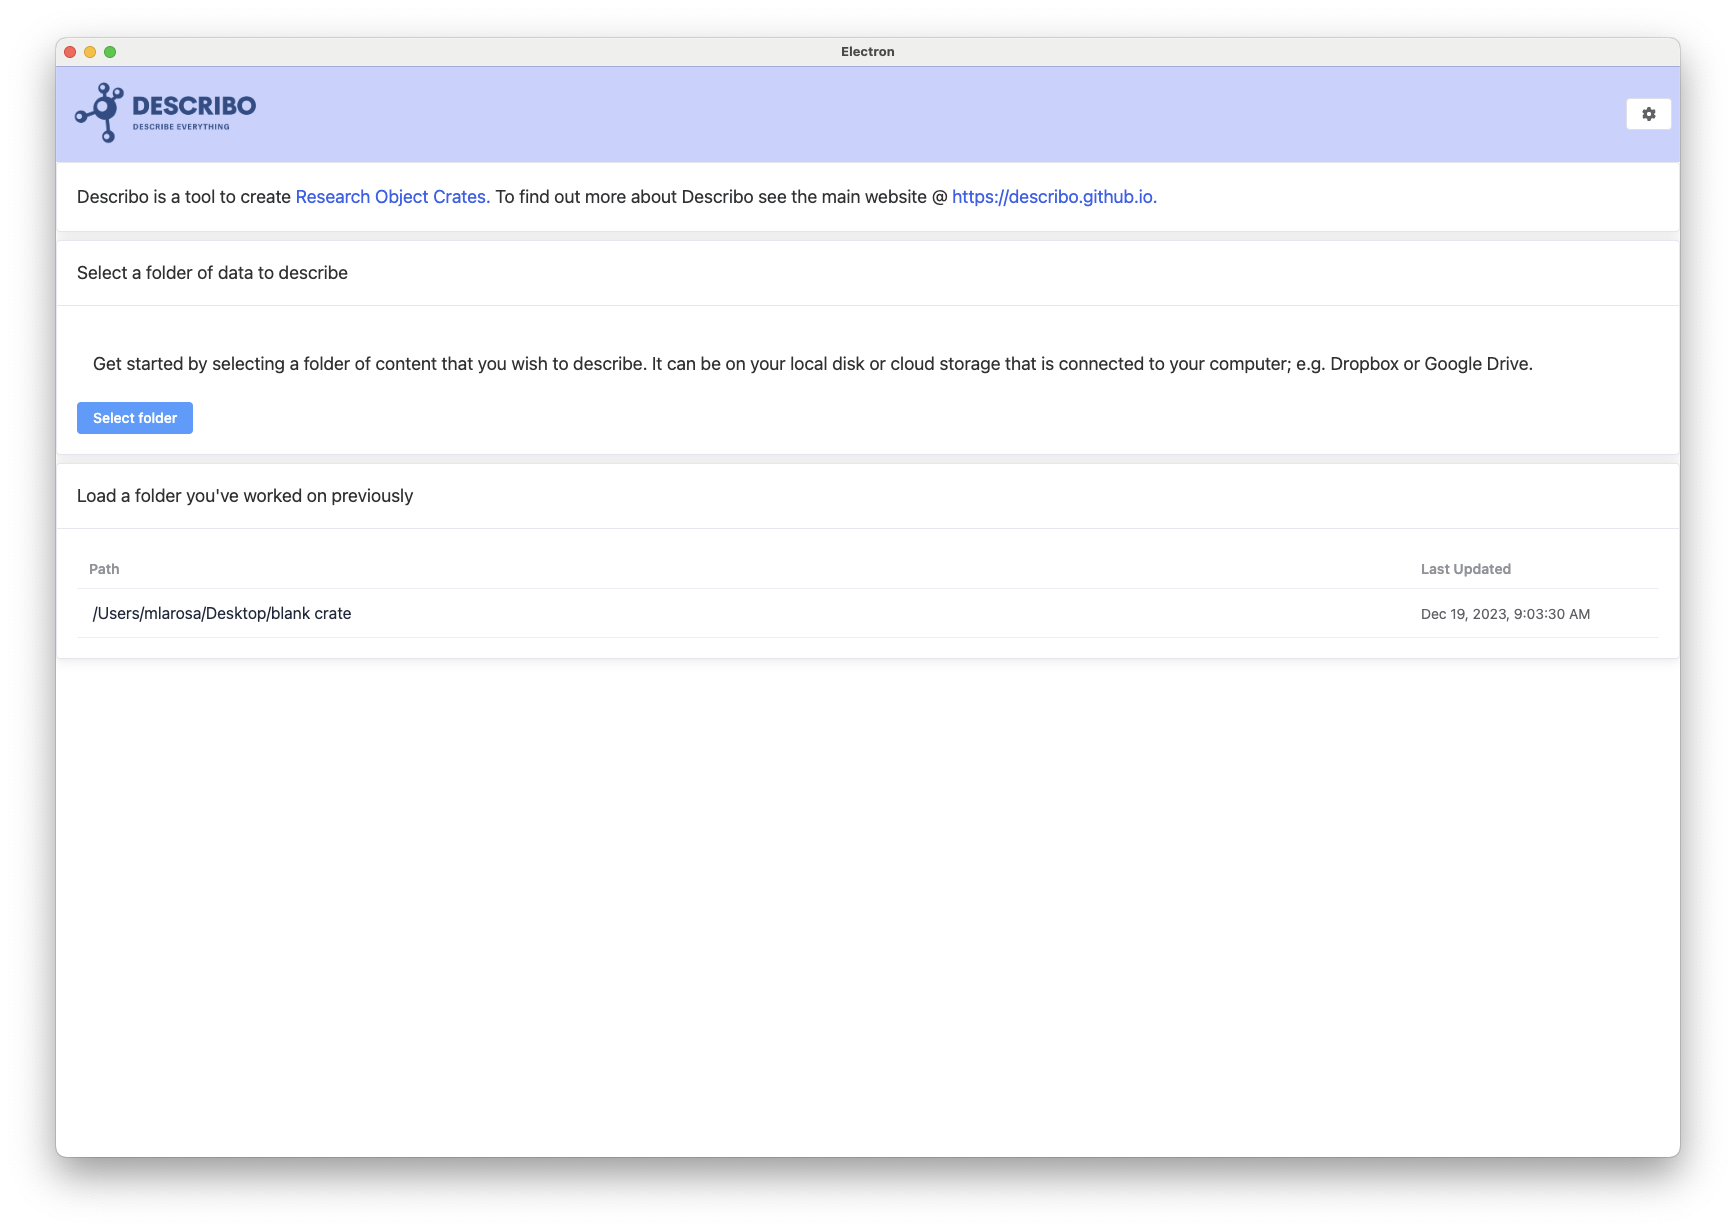
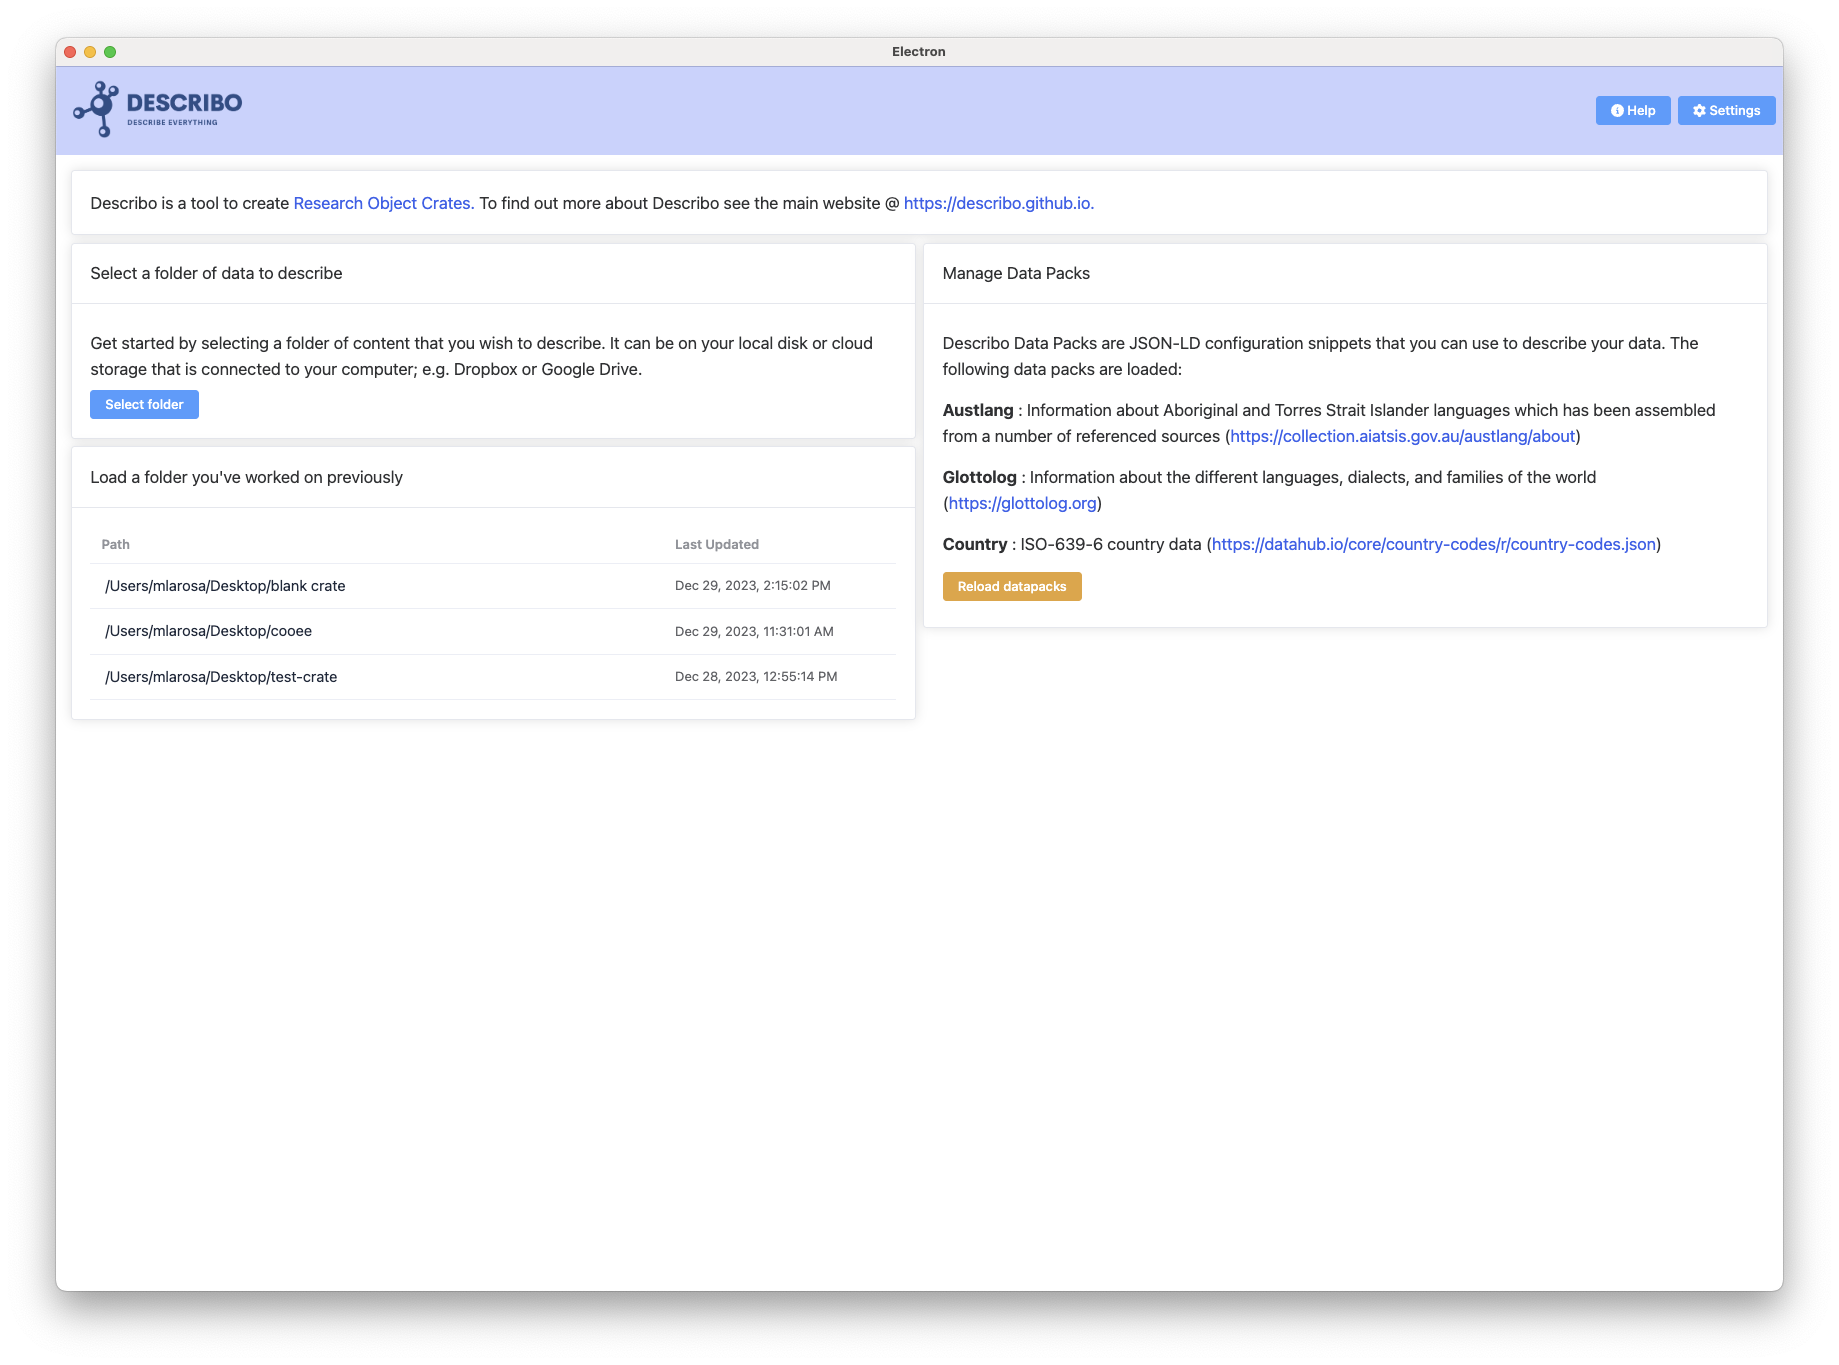
updating content

diff --git a/src/components/Shell.component.vue b/src/components/Shell.component.vue
@@ -29,26 +29,27 @@
             <div
                 class="flex flex-col space-y-4 lg:flex-row lg:space-x-2 lg:text-xl lg:place-content-center bg-slate-100 p-4 rounded"
             >
-                <div class="flex flex-col space-y-4 w-full lg:w-1/2 text-center">
+                <div class="flex flex-col space-y-4 w-full lg:w-1/2 text-center font-light">
                     <div>
                         <i class="fa-solid fa-user fa-4x text-blue-600"></i>
                     </div>
                     <div>Are you a user looking to get started?</div>
+                    <div class="text-2xl">
+                        Install the
+                        <router-link to="/desktop" class="hover:text-orange-600">
+                            desktop application
+                        </router-link>
+                        to get a full featured environment for creating and managing your research
+                        data including being able to describe files, manage data packs and much,
+                        much more (coming soon).
+                    </div>
                     <div>
-                        Try the
+                        Alternately, try the
                         <router-link to="/web" class="hover:text-orange-600">
                             web version
                         </router-link>
                         to get started quickly. It's not as full featured as the desktop application
                         but it's good for viewing RO Crates and performing basic metadata work.
-                    </div>
-                    <div>
-                        Alternately, install the
-                        <router-link to="/desktop" class="hover:text-orange-600">
-                            desktop application
-                        </router-link>
-                        to get a full featured environment for creating and managing your research
-                        data including being able to describe files and much more coming soon.
                     </div>
                     <div class="p-8">
                         Need help getting started?
@@ -110,8 +111,12 @@ import LinkComponent from "./Link.component.vue";
 
 const cards = [
     {
-        text: "The dashboard. Select a folder of content to describe or load a previously used folder.",
+        text: "The dashboard. Select a folder of content to describe; load a previously used folder or manage data pack data.",
         image: "/desktop1.png",
+    },
+    {
+        text: "Context aware help.",
+        image: "/desktop1a.png",
     },
     {
         text: `When the RO Crate file is loaded the root dataset is shown on the right along with a file browser on the left.

diff --git a/src/components/InfoPanel.component.vue b/src/components/InfoPanel.component.vue
@@ -1,6 +1,6 @@
 <template>
     <div
-        class="md:text-xl flex flex-col lg:flex-row justify-around items-center p-4"
+        class="md:text-xl flex flex-col lg:flex-row lg:space-x-2 justify-around items-center"
         :class="{ 'border-t border-slate-400': props.border }"
     >
         <div
@@ -9,7 +9,7 @@
                 'w-full': !slots.content,
             }"
         >
-            <div class="text-slate-900 text-xl mb-10">
+            <div class="text-slate-900 text-xl mb-6">
                 <slot name="title"></slot>
             </div>
 
@@ -18,7 +18,7 @@
             </div>
         </div>
         <div
-            class="text-base flex flex-row justify-around p-6"
+            class="text-base flex flex-row justify-around my-2"
             :class="{
                 'w-full lg:w-3/5': slots.content,
             }"
@@ -27,7 +27,7 @@
                 v-if="props.image"
                 :src="props.image"
                 :style="imageStyles"
-                class="object-contain m-4"
+                class="object-contain"
             />
             <slot name="content"></slot>
         </div>

diff --git a/src/components/pages/DescriboWeb.component.vue b/src/components/pages/DescriboWeb.component.vue
@@ -1,5 +1,5 @@
 <template>
-    <div class="flex flex-col space-y-20">
+    <div class="flex flex-col space-y-10">
         <InfoPanelComponent image="/web1.png" :border="false">
             <template #title>Describo Web</template>
             <template #text>
@@ -28,10 +28,10 @@
             <template #content>
                 <div class="flex flex-row space-x-10">
                     <div class="w-1/2">
-                        <img src="/logos/chrome.png" class="h-40" />
+                        <img src="/logos/chrome.png" class="h-20" />
                     </div>
                     <div class="w-1/2">
-                        <img src="/logos/edge.png" class="h-40" />
+                        <img src="/logos/edge.png" class="h-20" />
                     </div>
                 </div>
             </template>

diff --git a/src/components/Releases.component.vue b/src/components/Releases.component.vue
@@ -69,7 +69,7 @@ onMounted(async () => {
         }
         data.release = await response.json();
         data.download.windows = data.release?.assets.filter((asset) =>
-            asset.name.match(/win32-x64.*zip/)
+            asset.name.match(/.*Setup.exe/)
         )[0].browser_download_url;
         data.download.macArm = data.release?.assets.filter((asset) =>
             asset.name.match(/arm64.dmg/)

diff --git a/src/components/pages/DescriboDesktop.component.vue b/src/components/pages/DescriboDesktop.component.vue
@@ -1,5 +1,5 @@
 <template>
-    <div class="flex flex-col space-y-20">
+    <div class="flex flex-col space-y-10">
         <InfoPanelComponent image="/desktop3.png" :border="false">
             <template #title>Describo Desktop</template>
             <template #text>
